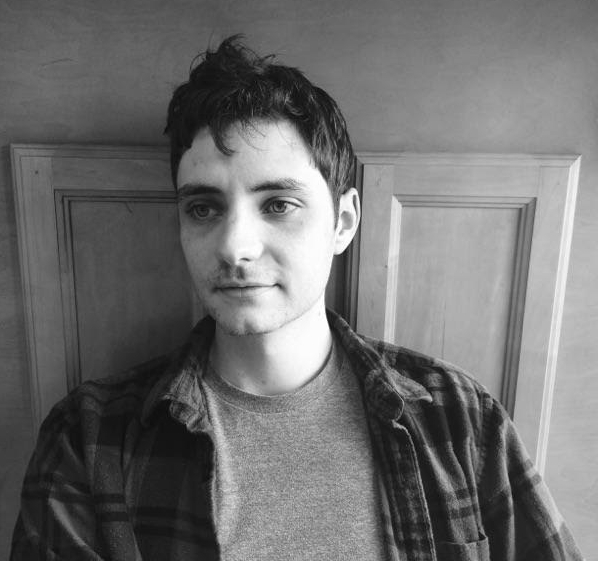
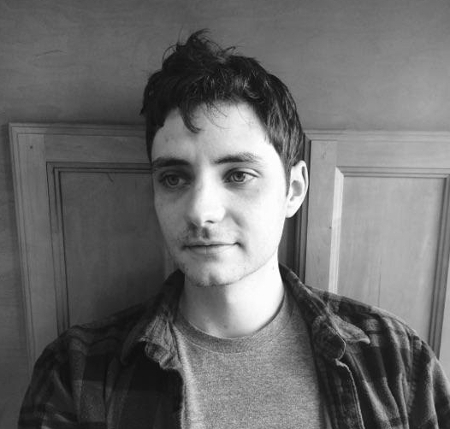
Content Inserts
- Add to about description
- Swap about pic with one that has a smaller size
- Link to screenshots and apps in portfolio section

diff --git a/index.html b/index.html
@@ -107,11 +107,11 @@
         <div class="col-md-6">
           <img src="img/dale-about.jpg" class="img-responsive" alt="">
         </div>
-        <div class="col-md-6 text-center">
+        <div class="col-md-6">
           <h1>Hi, I'm Dale</h1>
           <hr class="colored">
           <p>I'm a web developer from Providence. Software development combines my passion for technology with creative freedom and constant personal growth.</p>
-          <p>As a former Quality Engineer at Teespring, I understand what it means to deliver a product and support it in production.</p>
+          <p>As a former Quality Engineer at Teespring, I understand what it means to deliver a product and support it in production. As I move into a full-time development role my goal is to take that experience to the next level, building awesome applications that put quality first.</p>
         </div>
       </div>
     </div>
@@ -243,9 +243,9 @@
           <div class="col-md-5 col-md-push-7">
             <div class="project-details">
               <span class="project-name">Brewr</span>
-              <span class="project-description">A place for all your homebrew secrets.</span>
+              <span class="project-description bold">A place for all your homebrew secrets.</span>
               <hr class="colored">
-              <a href="#portfolioModal1" data-toggle="modal" class="btn btn-outline-light">View Details <i class="fa fa-long-arrow-right fa-fw"></i></a>
+              <a href="https://ddobson.github.io/brewr" data-toggle="modal" class="btn btn-outline-light">View It<i class="fa fa-long-arrow-right fa-fw"></i></a>
             </div>
           </div>
           <div class="col-md-7 col-md-pull-5 hidden-xs">
@@ -253,7 +253,7 @@
               <div class="device-mockup macbook portrait black">
                 <div class="device">
                   <div class="screen">
-                    <img src="img/brewr-bg.jpg" class="img-responsive" alt="">
+                    <img src="img/brewr-screenshot.png" class="img-responsive" alt="">
                   </div>
                 </div>
               </div>
@@ -271,7 +271,7 @@
               <span class="project-name">MagicBox</span>
               <span class="project-description">A cloud storage platform for all your files.</span>
               <hr class="colored">
-              <a href="#portfolioModal2" data-toggle="modal" class="btn btn-outline-light">View Details <i class="fa fa-long-arrow-right fa-fw"></i></a>
+              <a href="#portfolioModal2" data-toggle="modal" class="btn btn-outline-light">View It<i class="fa fa-long-arrow-right fa-fw"></i></a>
             </div>
           </div>
           <div class="col-md-7 col-md-pull-5 hidden-xs">
@@ -297,7 +297,7 @@
               <span class="project-name">CookbookNook</span>
               <span class="project-description">A fun way to explore your cookbook collection.</span>
               <hr class="colored">
-              <a href="#portfolioModal3" data-toggle="modal" class="btn btn-outline-light">View Details <i class="fa fa-long-arrow-right fa-fw"></i></a>
+              <a href="http://cookbook-nook.surge.sh" data-toggle="modal" class="btn btn-outline-light">View It<i class="fa fa-long-arrow-right fa-fw"></i></a>
             </div>
           </div>
           <div class="col-md-7 col-md-pull-5 hidden-xs">
@@ -305,7 +305,7 @@
               <div class="device-mockup macbook portrait black">
                 <div class="device">
                   <div class="screen">
-                    <img src="img/creative/portfolio/carousel/screen-3a.jpg" class="img-responsive" alt="">
+                    <img src="img/cbnook-screenshot.png" class="img-responsive" alt="">
                   </div>
                 </div>
               </div>

diff --git a/css/index.css b/css/index.css
@@ -18,3 +18,7 @@
 .footer-content {
   padding: 50px 0;
 }
+
+.bold {
+font-weight: bold;
+}
